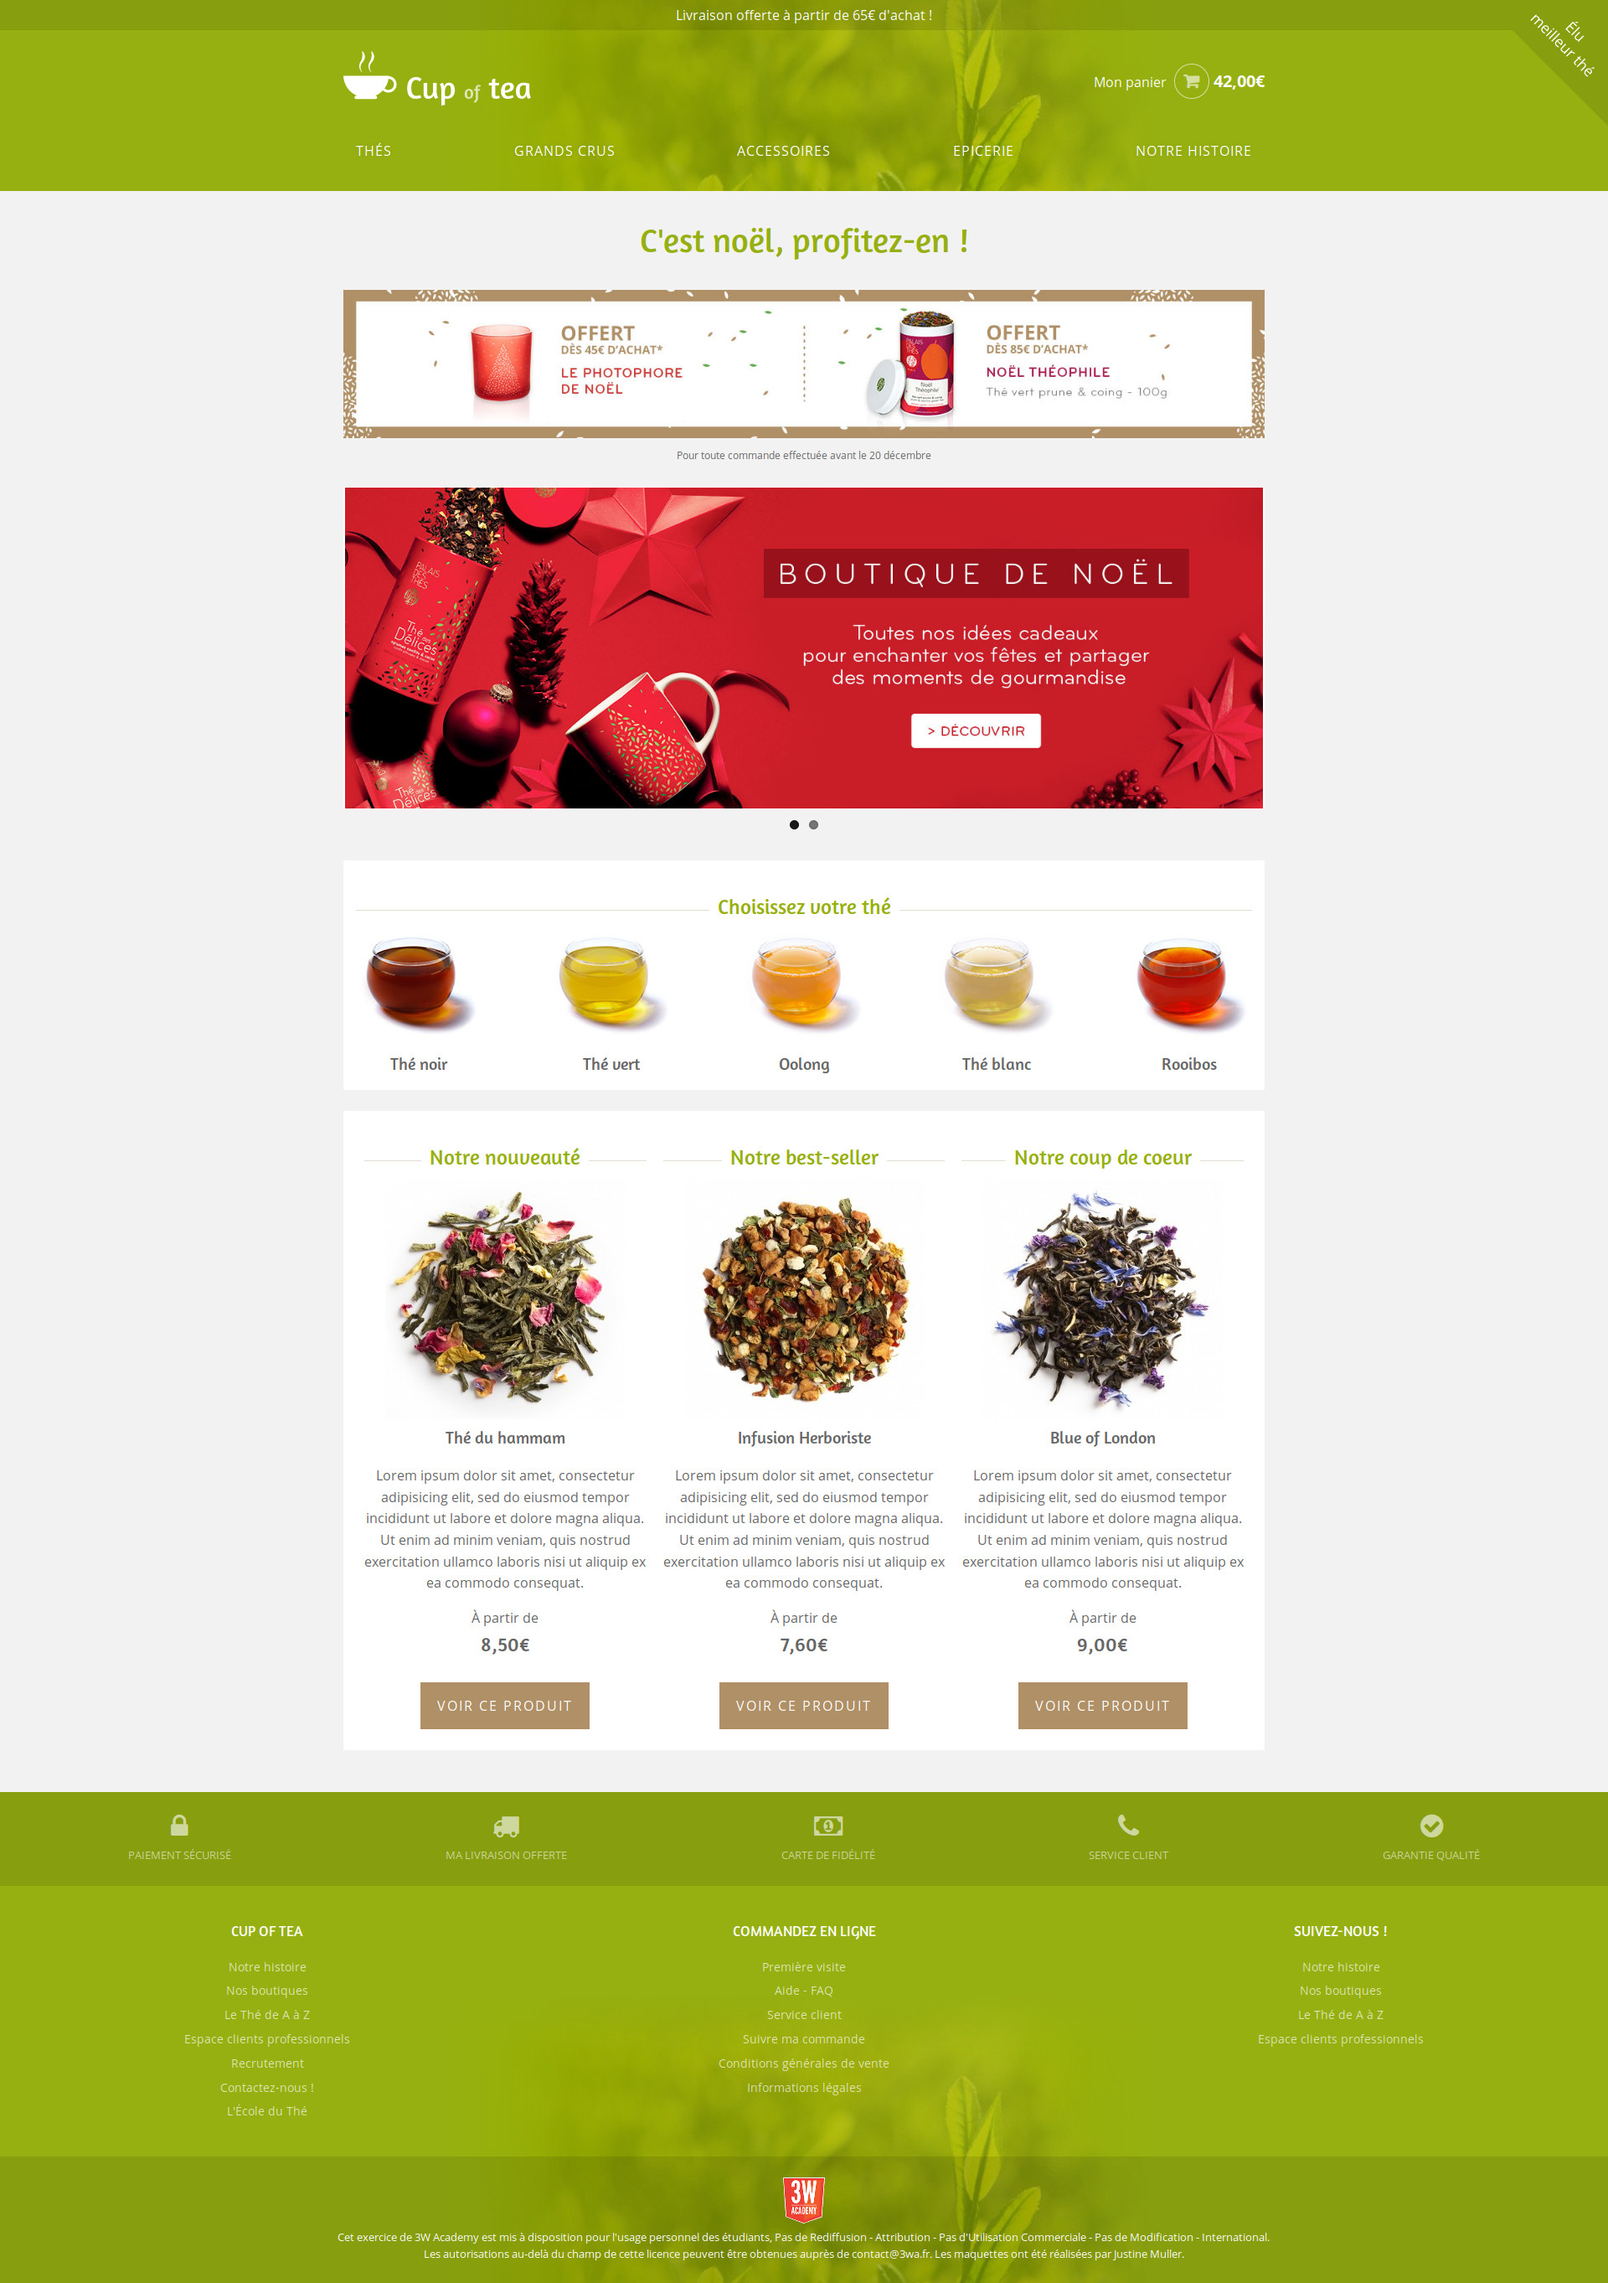
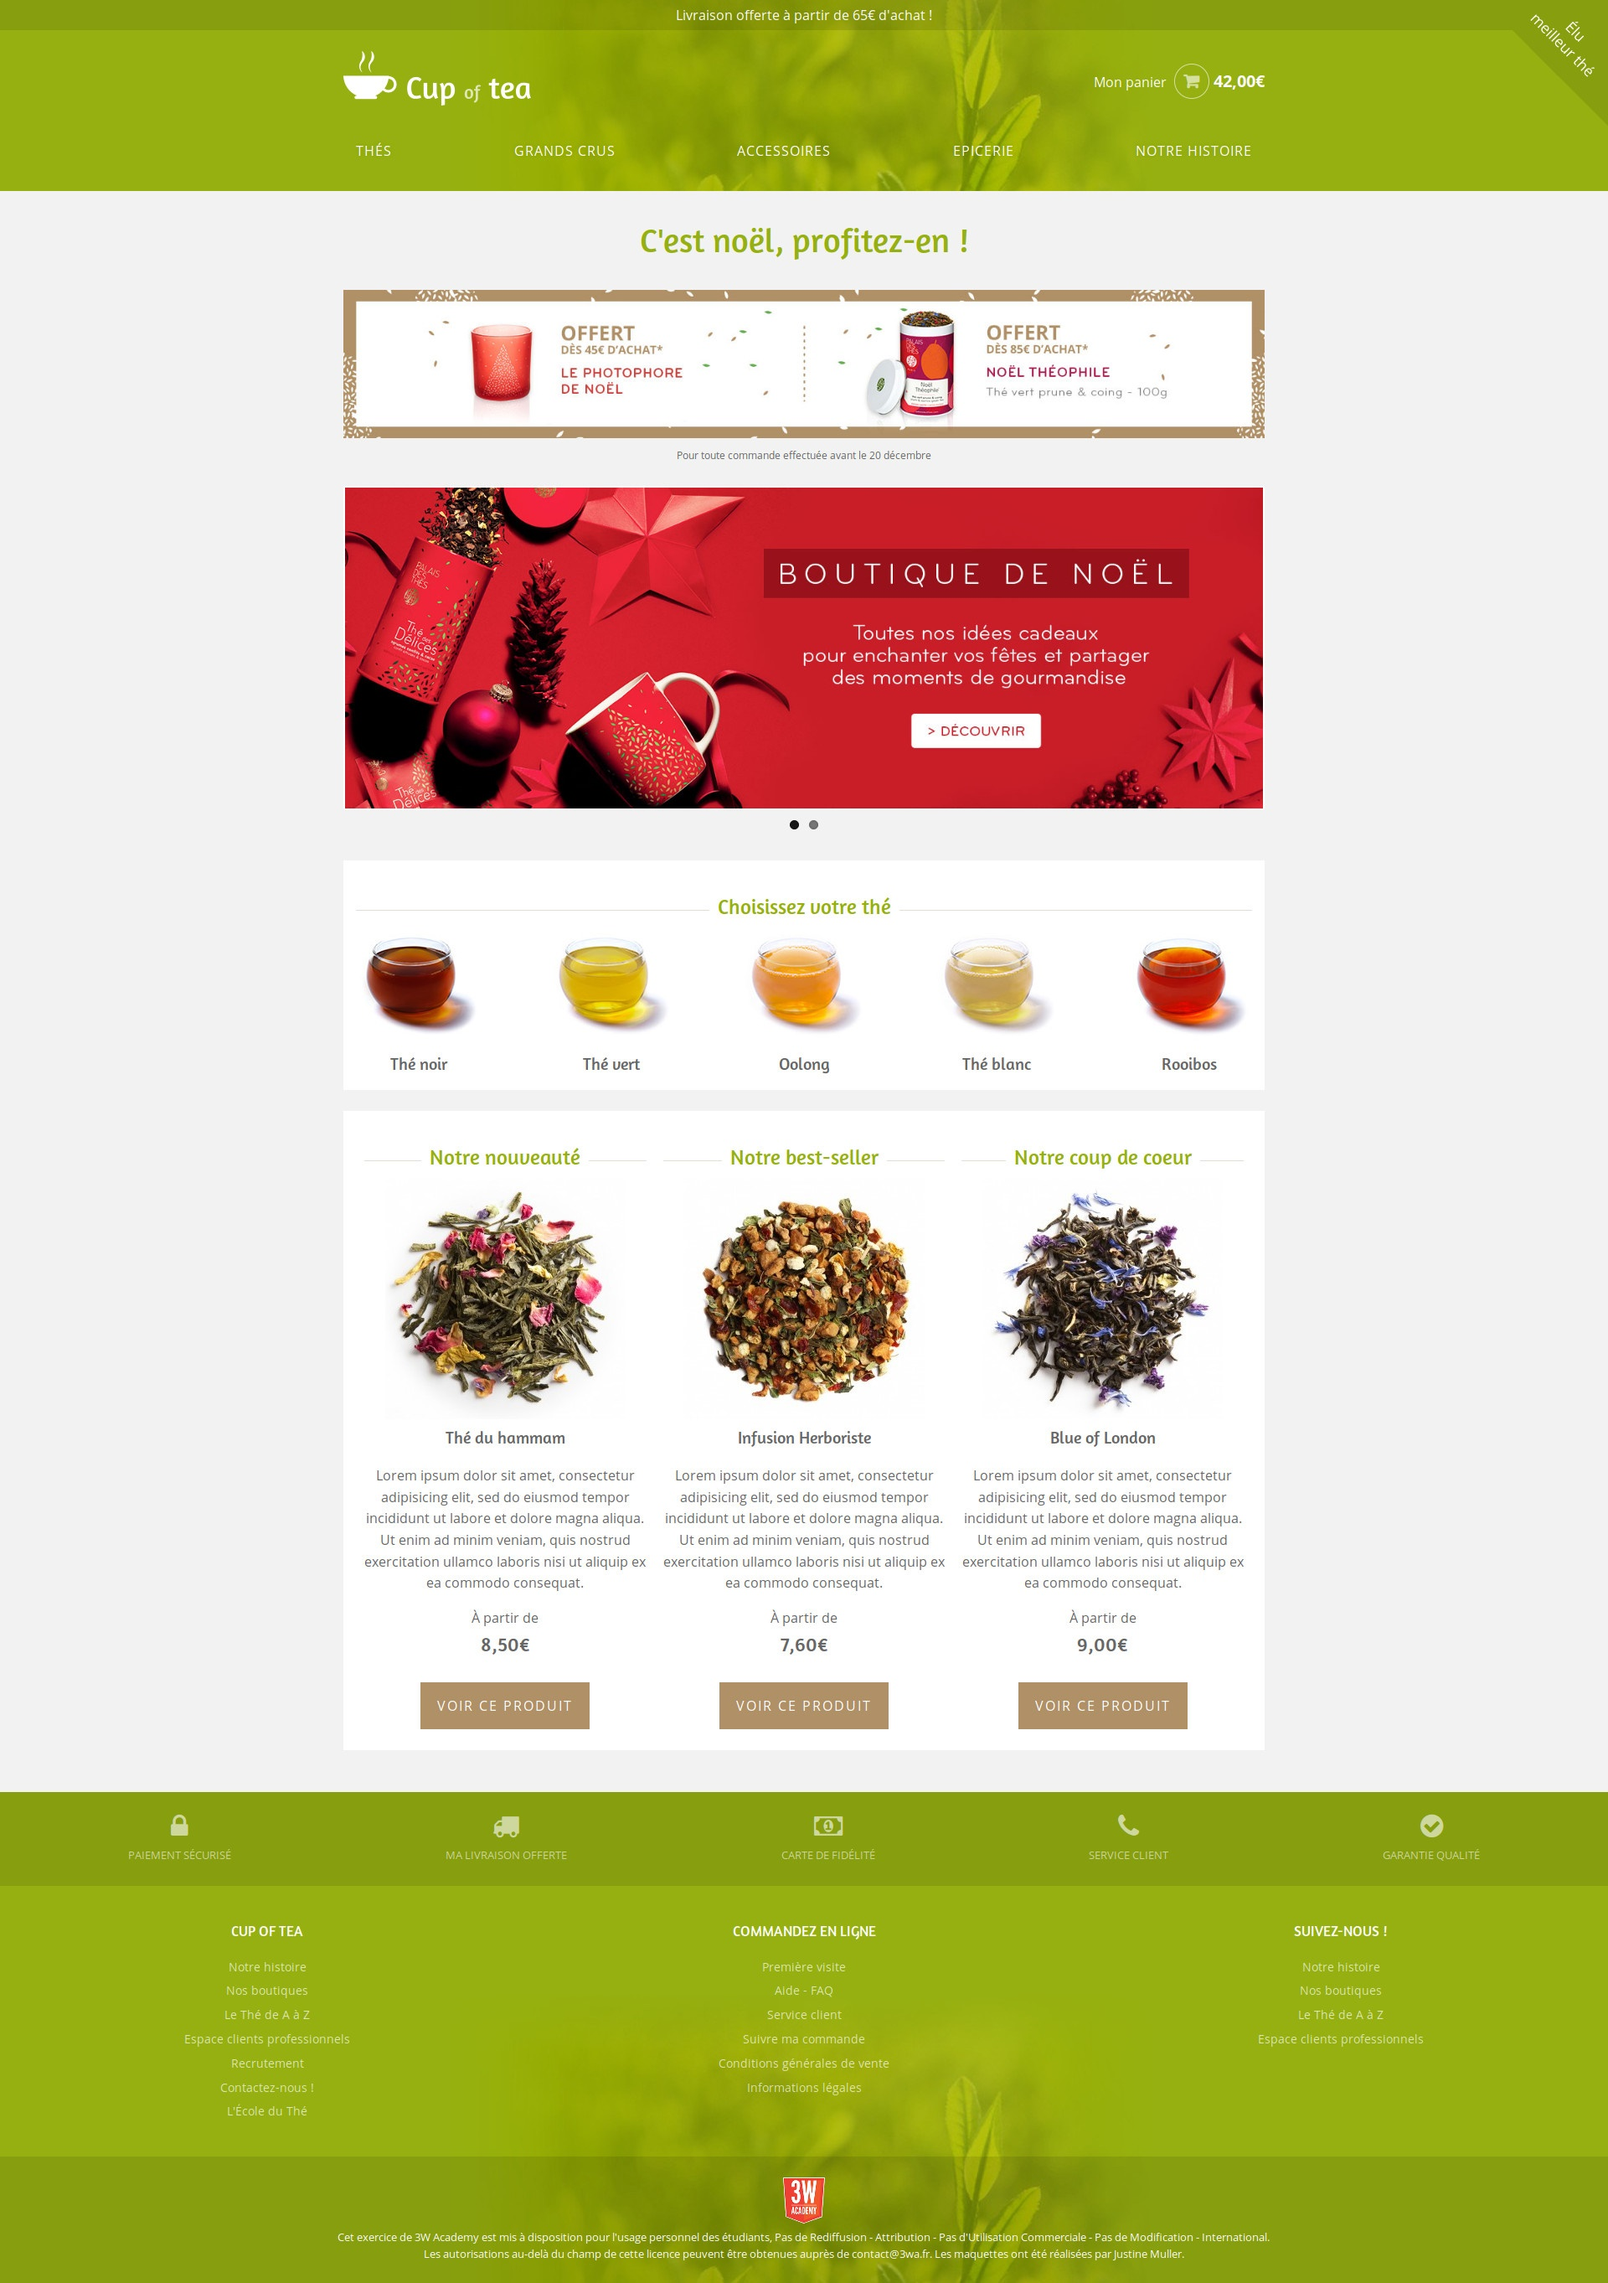
styler la section choix the mobile disposition flex

diff --git a/style.css b/style.css
@@ -106,3 +106,61 @@ header nav ul li a {
 
 
 }
+
+
+
+
+
+main {
+	background-color: #f2f2f2;
+}
+
+
+h1, img[src="img/offre-noel.jpg"] , main > p, .flexslider  {
+	display:none;
+}
+
+
+.choix-the {
+	padding-top: 1px;
+	margin-top: 25px;
+	background-color:white; 
+}
+
+.choix-the h2 {
+	font-family: 'Amaranth', sans-serif;
+	color:#95a60a;
+	text-align: center;
+	display: block;
+	width:50%;
+	margin: 0 auto;
+
+
+}
+
+.choix-the  hr {
+	display:inline-block;
+	
+}
+
+
+.choix-the ul {
+	display: flex;
+	flex-direction: row;
+	flex-wrap: wrap;
+	justify-content: center;
+	align-items: stretch;
+	align-content: stretch;
+	padding-left: 0;
+}
+
+.choix-the ul li {
+	list-style-type: none;
+	text-align: center;
+	font-family: 'Amaranth', sans-serif;
+	font-size: 1.25em;
+	color:#65666b;
+	width:50%;
+	display:inline-block;
+
+}

diff --git a/home.html b/home.html
@@ -80,7 +80,7 @@
 <section class="choix-the">
 	
 
-	<h2>Choisissez votre thé</h2>
+	<hr><h2>Choisissez votre thé</h2><hr>
 
 	<ul>
 		<li><img src="img/tea/1.jpg" alt="thé noir"><br>Thé noir</li>
